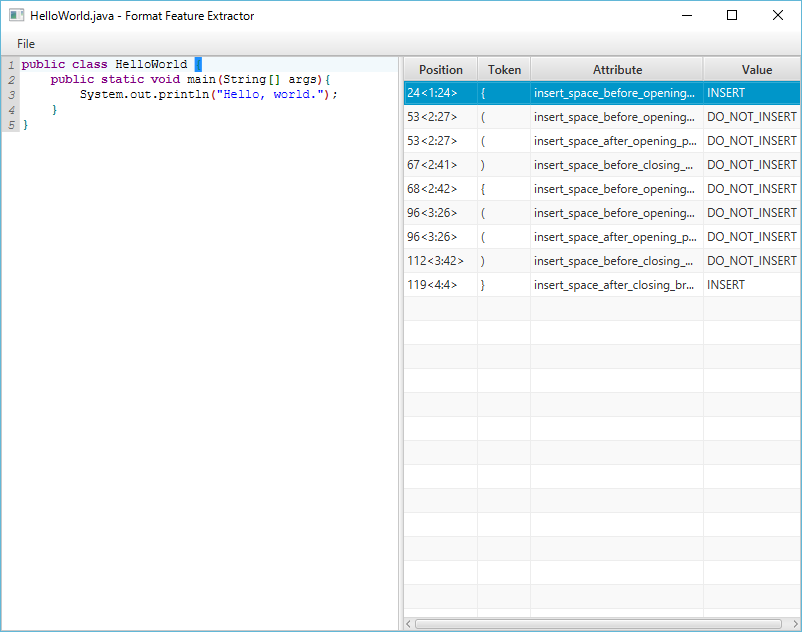
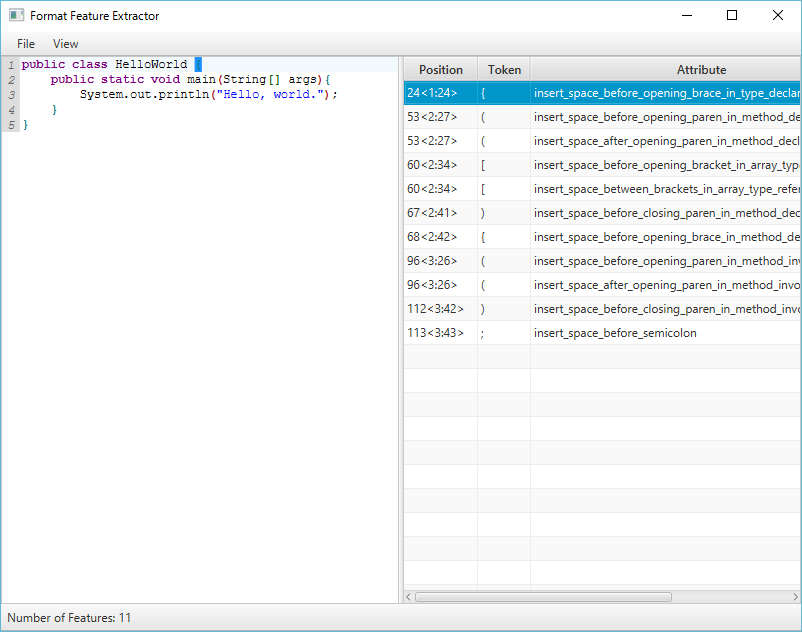
GUI版が正しく動作するように改良．スクリーンショットを更新

diff --git a/src/main/java/ffe/gui/MainWindowController.java b/src/main/java/ffe/gui/MainWindowController.java
@@ -9,10 +9,7 @@ import javafx.event.ActionEvent;
 import javafx.event.EventHandler;
 import javafx.fxml.FXML;
 import javafx.fxml.Initializable;
-import javafx.scene.control.Alert;
-import javafx.scene.control.TableColumn;
-import javafx.scene.control.TableView;
-import javafx.scene.control.TextInputDialog;
+import javafx.scene.control.*;
 import javafx.scene.input.*;
 import javafx.scene.layout.BorderPane;
 import javafx.scene.text.Font;
@@ -29,7 +26,9 @@ import java.util.concurrent.Executors;
 public class MainWindowController implements Initializable {
 
     private final SourceCodeManager manager = new SourceCodeManager();
-    private final ExecutorService executor = Executors.newSingleThreadExecutor();
+
+    @FXML
+    private Label statusBar;
 
     @FXML
     private TableColumn<WhiteSpaceFormatFeature, String> positionColumn;
@@ -51,7 +50,7 @@ public class MainWindowController implements Initializable {
 
     @Override
     public void initialize(URL location, ResourceBundle resources) {
-        attributeColumn.setCellValueFactory(e -> new SimpleStringProperty(e.getValue().format.substring(31)));
+        attributeColumn.setCellValueFactory(e -> new SimpleStringProperty(e.getValue().format));
         positionColumn.setCellValueFactory(e -> new SimpleStringProperty(manager.getPositionDescription(e.getValue().token.originalStart)));
         tokenColumn.setCellValueFactory(e -> new SimpleStringProperty(manager.getToken(e.getValue().token)));
         valueColumn.setCellValueFactory(e -> new SimpleStringProperty(e.getValue().value.toString()));
@@ -63,6 +62,7 @@ public class MainWindowController implements Initializable {
             }
         });
         tableView.setItems(manager.features);
+        statusBar.textProperty().bind(Bindings.concat("Number of Features: ").concat(Bindings.size(manager.features)));
         manager.text.addListener((observable, oldValue, newValue) -> {
             textArea.getContent().clear();
             textArea.getContent().replaceText(0, 0, newValue);

diff --git a/src/main/java/ffe/Main.java b/src/main/java/ffe/Main.java
@@ -1,5 +1,6 @@
 package ffe;
 
+import ffe.gui.MainGUI;
 import ffe.output.CsvWriter;
 import ffe.output.IFeatureWriter;
 import ffe.output.TextWriter;
@@ -15,8 +16,10 @@ public class Main {
     public static void main(String[] args) throws IOException {
         Options options = new Options();
         options.addOption("o", "output", true, "output filename");
-        options.addOption("s", "style", true, "output style (text/csv; csv is by default)");
+        options.addOption("s", "style", true, "output style (text/csv; csv by default)");
         options.addOption("f", "format", true, "formats to output (delimiter is comma; all formats by default)");
+        options.addOption("g", "gui", false, "show window (other arguments are ignored)");
+        options.addOption("h", "help", false, "show help");
         final File outputFile;
         final List<String> targets;
         final String[] targetFeatures;
@@ -24,6 +27,15 @@ public class Main {
         try {
             CommandLineParser parser = new DefaultParser();
             CommandLine line = parser.parse(options, args);
+            if (line.hasOption("h")) {
+                HelpFormatter formatter = new HelpFormatter();
+                formatter.printHelp("format-feature-extractor [OPTION]... [FILE]...", options);
+                return;
+            }
+            if (line.hasOption("g")) {
+                MainGUI.main(args);
+                return;
+            }
             if (line.hasOption("o")) {
                 outputFile = new File(line.getOptionValue("o"));
             } else {

diff --git a/src/main/java/ffe/gui/FontDialog.java b/src/main/java/ffe/gui/FontDialog.java
@@ -60,7 +60,8 @@ public class FontDialog extends Dialog<Font> {
 
         setResultConverter((dialogButton) -> {
             ButtonBar.ButtonData data = dialogButton == null ? null : dialogButton.getButtonData();
-            return data == ButtonBar.ButtonData.OK_DONE ? Font.font(fontFamilyComboBox.getSelectionModel().getSelectedItem(), fontSizeComboBox.getSelectionModel().getSelectedItem()) : null;
+            return data == ButtonBar.ButtonData.OK_DONE && !fontFamilyComboBox.getSelectionModel().isEmpty() && !fontSizeComboBox.getSelectionModel().isEmpty() ?
+                    Font.font(fontFamilyComboBox.getSelectionModel().getSelectedItem(), fontSizeComboBox.getSelectionModel().getSelectedItem()) : null;
         });
     }
 
